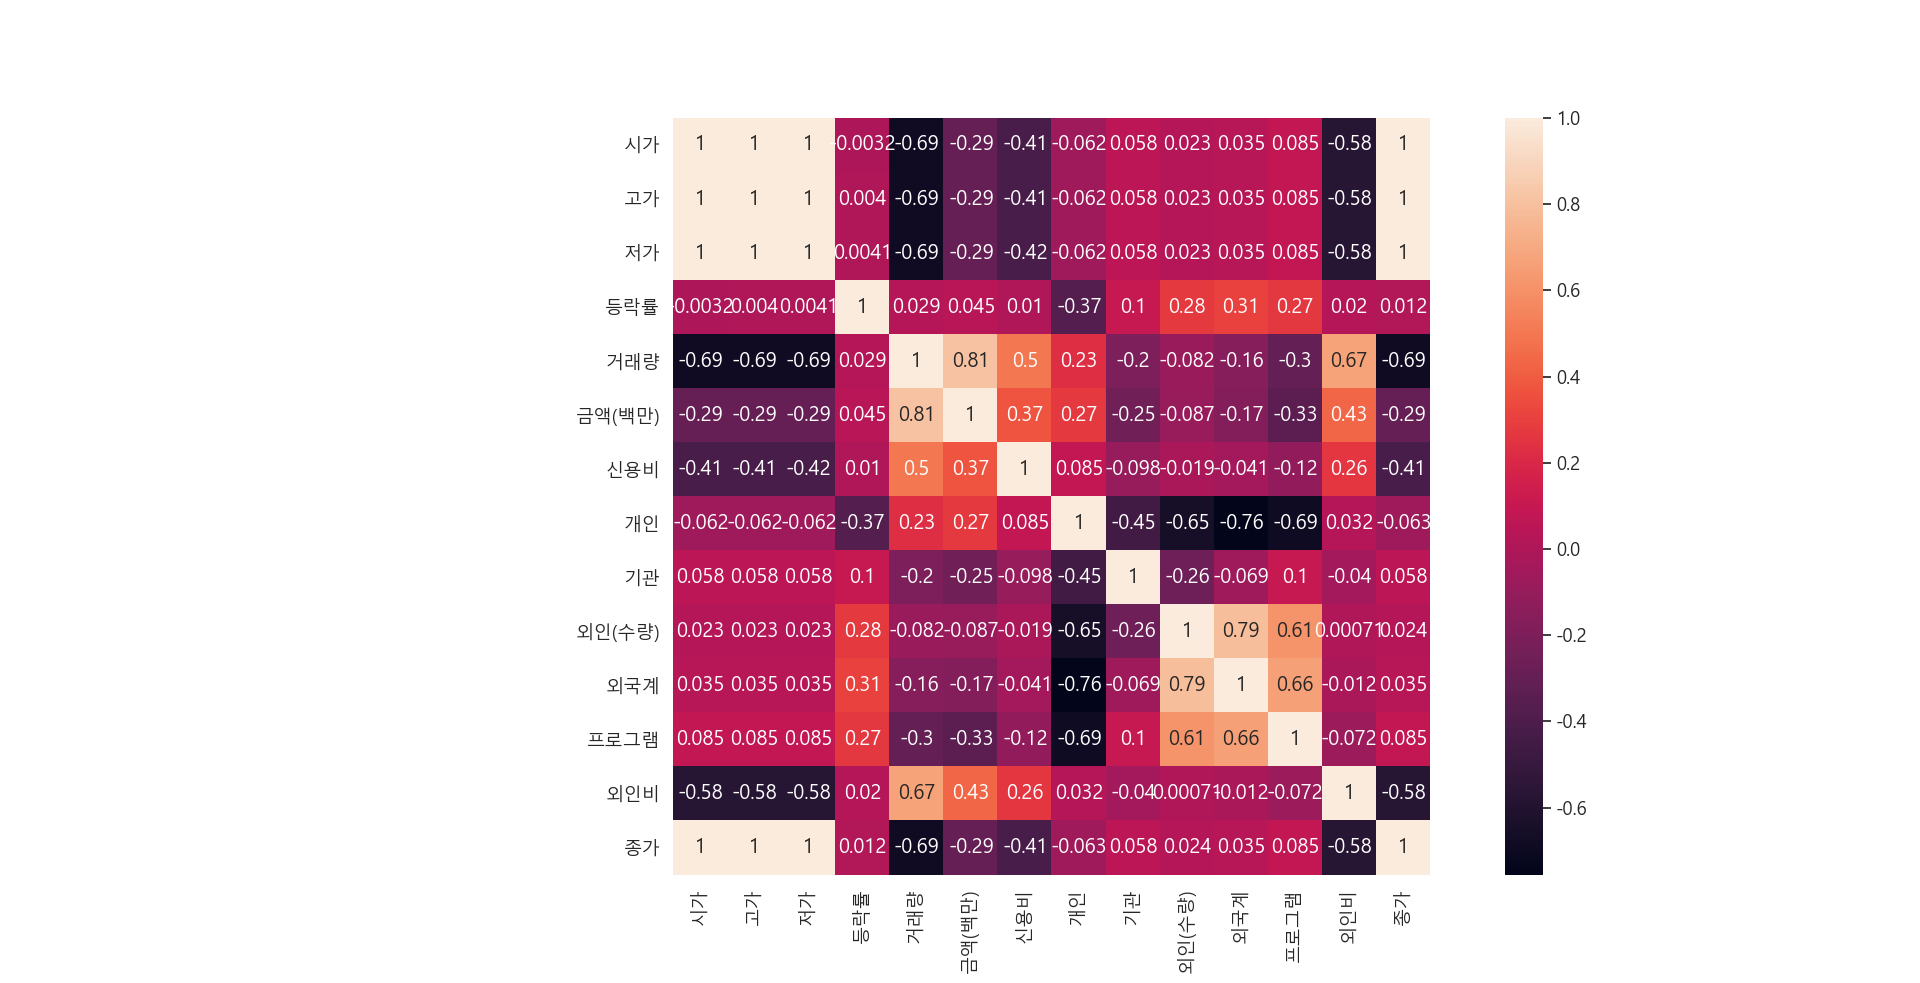
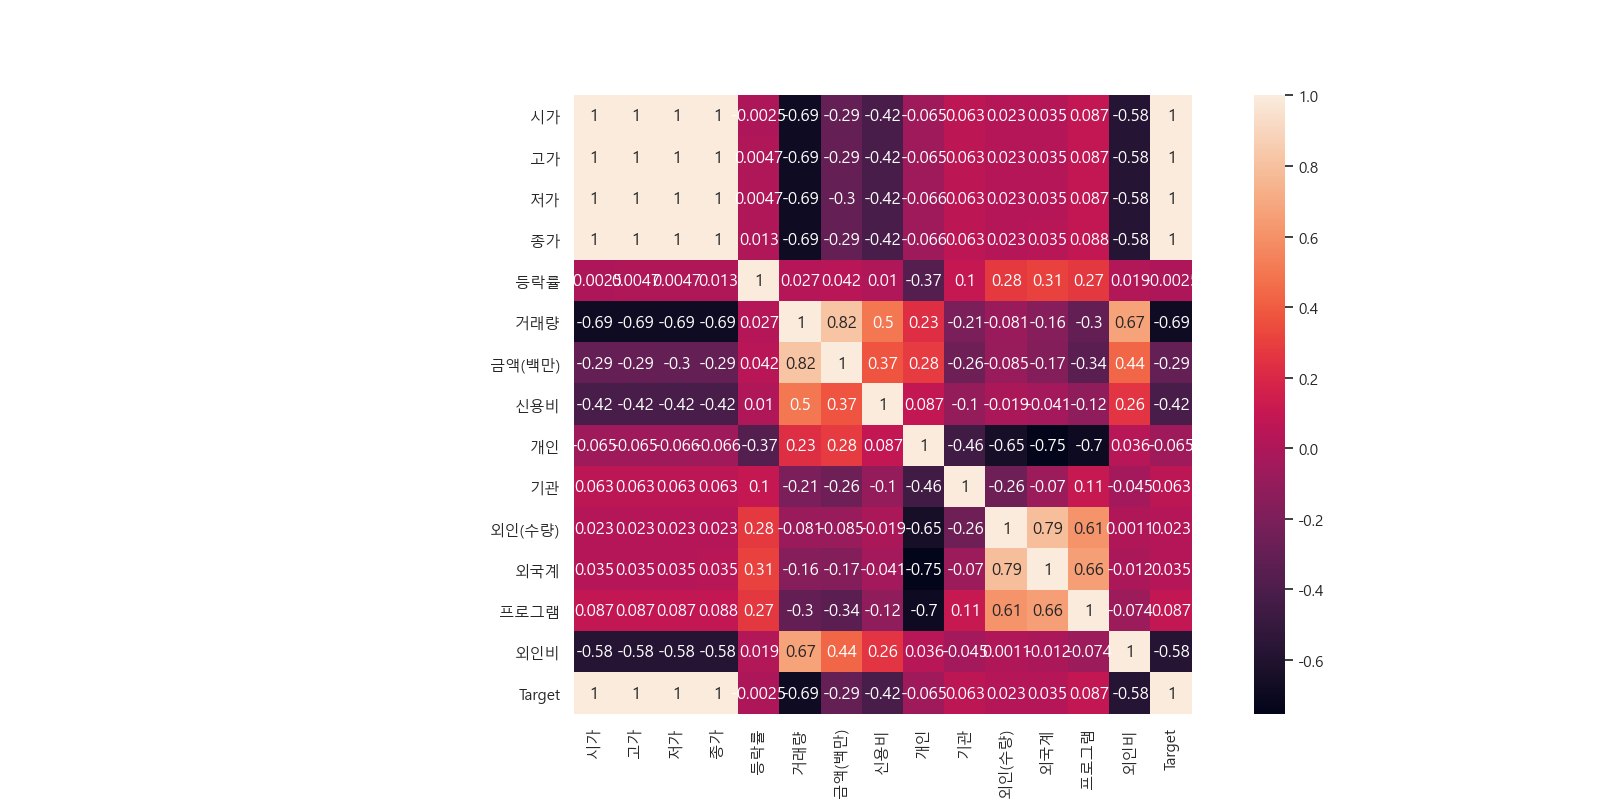
21-01-15

diff --git a/samsung/samsung_1_data5.py b/samsung/samsung_1_data5.py
@@ -11,32 +11,42 @@ df = pd.read_csv('./samsung/삼성전자1_raw.csv', index_col=0, header=0, encod
 # Index(['시가', '고가', '저가', '종가', '등락률', '거래량', '금액(백만)', '신용비', '개인', '기관',
     #    '외인(수량)', '외국계', '프로그램', '외인비'],
 
+# 13일 데이터 삭제  
+df.drop(['2021-01-13'],axis=0,inplace=True)
+# print(df)   # [2399 rows x 14 columns]
 
 #############################################################
 
-# 추가데이터 정리
-df2 = pd.read_csv('./samsung/삼성전자2_raw.csv', index_col=0, header=0, encoding='cp949') 
+# 추가데이터 append
+df2 = pd.read_csv('./samsung/삼성전자0115.csv', index_col=0, header=0, encoding='cp949') 
+# print(df2.shape) # (80, 16)
+# print(df2.columns)
+# Index(['시가', '고가', '저가', '종가', '전일비', 'Unnamed: 6', '등락률', '거래량', '금액(백만)',
+    #    '신용비', '개인', '기관', '외인(수량)', '외국계', '프로그램', '외인비'],
 
 # # 열 삭제
 df2.drop(['전일비', 'Unnamed: 6'], axis=1, inplace=True)
-# print(df2.shape) # (60, 14)
+# print(df2.shape) # (80, 14)
 # print(df2.columns)
 # Index(['시가', '고가', '저가', '종가', '등락률', '거래량', '금액(백만)', '신용비', '개인', '기관',
-#        '외인(수량)', '외국계', '프로그램', '외인비'],
+    #    '외인(수량)', '외국계', '프로그램', '외인비'],
 
-# # NULL 값 삭제
-# print(df2.isnull().sum())    
-df2 = df2.dropna(axis=0)
-# print(df2.shape)    # (2, 14)
-# print(df2.isnull().sum())  # null 제거 확인
+# # NULL 값 확인 > 널 없음
+# print(df2.isnull().sum())  
 
-# # 데이터 13일 데이터 갱신 + 14일 데이터 추가
-df2_0114 = df2.iloc[:1,:]                      # 1월 14일 데이터
-df2_0113 = df2.iloc[1:2,:]                     # 1월 13일 데이터
-df = df.append(df2_0114, ignore_index=False)   # 14일 데이터 추가
-df[0:1] = df2_0113                             # 1월 13일 데이터 갱신
-# print(df[0:1])
-# print(df.shape)  # (2401, 14)
+# # df2 index 이름 변경
+df2.rename(index = {'2021/01/13' : '2021-01-13'}, inplace=True)
+df2.rename(index = {'2021/01/14' : '2021-01-14'}, inplace=True)
+df2.rename(index = {'2021/01/15' : '2021-01-15'}, inplace=True)
+# print(df2)
+
+# # df에 13, 14, 15일 데이터 합치기
+df2_new = df2.iloc[:3,:]                      # 13, 14, 15일 데이터
+df = df.append(df2_new, ignore_index=False)   # 14일 데이터 추가
+
+# print(df)
+# print(df.shape)  # (2402, 14)
+
 
 #############################################################
 
@@ -54,20 +64,20 @@ df_sorted = df.sort_values(by='일자' ,ascending=True)
 # print(df_sorted)
 
 # 4. 예측하고자 하는 값을 맨 뒤에 추가한다.
-zonga = df_sorted.iloc[:,3]
-df_target = df_sorted.drop(['종가'], axis=1)
-df_target['종가'] = zonga 
-# print(df_target)    
-# print(df_target.columns)
-# Index(['시가', '고가', '저가', '등락률', '거래량', '금액(백만)', '신용비', '개인', '기관', '외인(수량)',
-    #    '외국계', '프로그램', '외인비', '종가'],
-# [2401 rows x 14 columns]
+siga = df_sorted.iloc[:,0]      # 예측해야 하는 값 : 시가
+# print(siga)
+df_sorted['Target'] = siga      # 시가를 Target으로 잡고 열 추가함
+# print(df_sorted)    
+# print(df_sorted.columns)
+# Index(['시가', '고가', '저가', '종가', '등락률', '거래량', '금액(백만)', '신용비', '개인', '기관',
+#        '외인(수량)', '외국계', '프로그램', '외인비', 'Target'],
+# [2402 rows x 15 columns]
 
 # 5. 결측값이 들어있는 행 전체 제거
-# print(df_target.isnull().sum())    
-# null : 2018-04-30, 2018-05-02, 2018-05-03 >> 거래량  3 / 금액(백만) 3
-df_drop_null = df_target.dropna(axis=0)
-# print(df_drop_null.shape)    # (2398, 14)
+# print(df_sorted.isnull().sum())    
+# null : 2018-04-30, 2018-05-02, 2018-05-03 >> 거래량  3개 / 금액(백만) 3개
+df_drop_null = df_sorted.dropna(axis=0)
+# print(df_drop_null.shape)    # (2399, 15)
 # print(df_drop_null.isnull().sum())  # null 제거 확인
 
 
@@ -75,24 +85,30 @@ df_drop_null = df_target.dropna(axis=0)
 # print(df_dop_null.corr())
 import matplotlib.pyplot as plt
 import seaborn as sns
-sns.set(font_scale=1.2, font='Malgun Gothic', rc={'axes.unicode_minus':False}) # 폰트 크기
+sns.set(font_scale=1.0, font='Malgun Gothic', rc={'axes.unicode_minus':False}) 
 sns.heatmap(data=df_drop_null.corr(),square=True, annot=True, cbar=True)
 # plt.show()
 # 상관계수 0.5 이상 : 시가, 고가, 저가, 종가, 거래량, 외인비
 
 # 7. 분석하고자 하는 칼럼만 남기기 (열 제거)
-# 남길 열 : 시가, 고가, 저가, 거래량, 외인비, 종가
+# 남길 열 : 시가, 고가, 저가, 종가, 거래량, 외인비, Target
 # 열 제거 :  등락률, 금액, 신용비, 개인, 기관, 외인, 외국계, 프로그램
 delete_col = df_drop_null.drop(['등락률', '금액(백만)', '신용비', '개인', '기관', '외인(수량)', '외국계', '프로그램'], axis=1)
-# print(delete_col)
+# print(delete_col)           # [2399 rows x 7 columns]
 # print(delete_col.columns)
-# Index(['시가', '고가', '저가', '거래량', '외인비', '종가'], dtype='object')
-# print(delete_col.shape) # [2398 rows x 6 columns]
+# Index(['시가', '고가', '저가', '종가', '거래량', '외인비', 'Target'], dtype='object')
 
 # 8. 액면가 조정 
 # 시가, 고가, 저가, 종가 : (1~1735) 50으로 나누기
 # 거래량 : (1~1735) 50으로 곱하기
 
+delete_col.iloc[:1735,:3] = delete_col.iloc[:1735,:3] / 50
+b = delete_col.iloc[1735:,:3]
+# delete_col['시가'] = pd.concat([a,b])
+print(delete_col[:3])
+
+
+"""
 # # 시가
 a = delete_col.iloc[:1735,:1] / 50
 b = delete_col.iloc[1735:,:1]
@@ -133,6 +149,8 @@ delete_col['종가'] = pd.concat([a,b])
 # print(delete_col.shape) # (2398, 6)
 # print(delete_col.info()) 
 
+"""
+
 '''
 <class 'pandas.core.frame.DataFrame'>
 Index: 2398 entries, 2011-04-18 to 2021-01-14
@@ -149,6 +167,11 @@ dtypes: float64(6)
 memory usage: 131.1+ KB
 None
 '''
+
+
+
+
+"""
 # ================================================
 # 10. train, test, vali, pred 데이터 분리 
 final_data = delete_col.to_numpy()
@@ -235,6 +258,7 @@ print(y_test_sam.shape)         # (479, 1)
 print(y_val_sam.shape)          # (383, 1)
 
 
-넘파이 저장
+# 넘파이 저장
 np.save('./samsung/samsung_slicing_data5.npy',\
     arr=[x_train_sam, x_test_sam, x_val_sam, y_train_sam, y_test_sam, y_val_sam, x_pred_sam])
+"""

diff --git a/samsung/kodex_1_data1.py b/samsung/kodex_1_data1.py
@@ -1,0 +1,6 @@
+import pandas as pd
+import numpy as np
+df = pd.read_csv('./samsung/KODEX 코스닥150 선물인버스.csv', index_col=0, header=0, encoding='cp949')   
+print(df.columns)
+#Index(['시가', '고가', '저가', '종가', '전일비', 'Unnamed: 6', '등락률', '거래량', '금액(백만)',
+    #    '신용비', '개인', '기관', '외인(수량)', '외국계', '프로그램', '외인비'],
